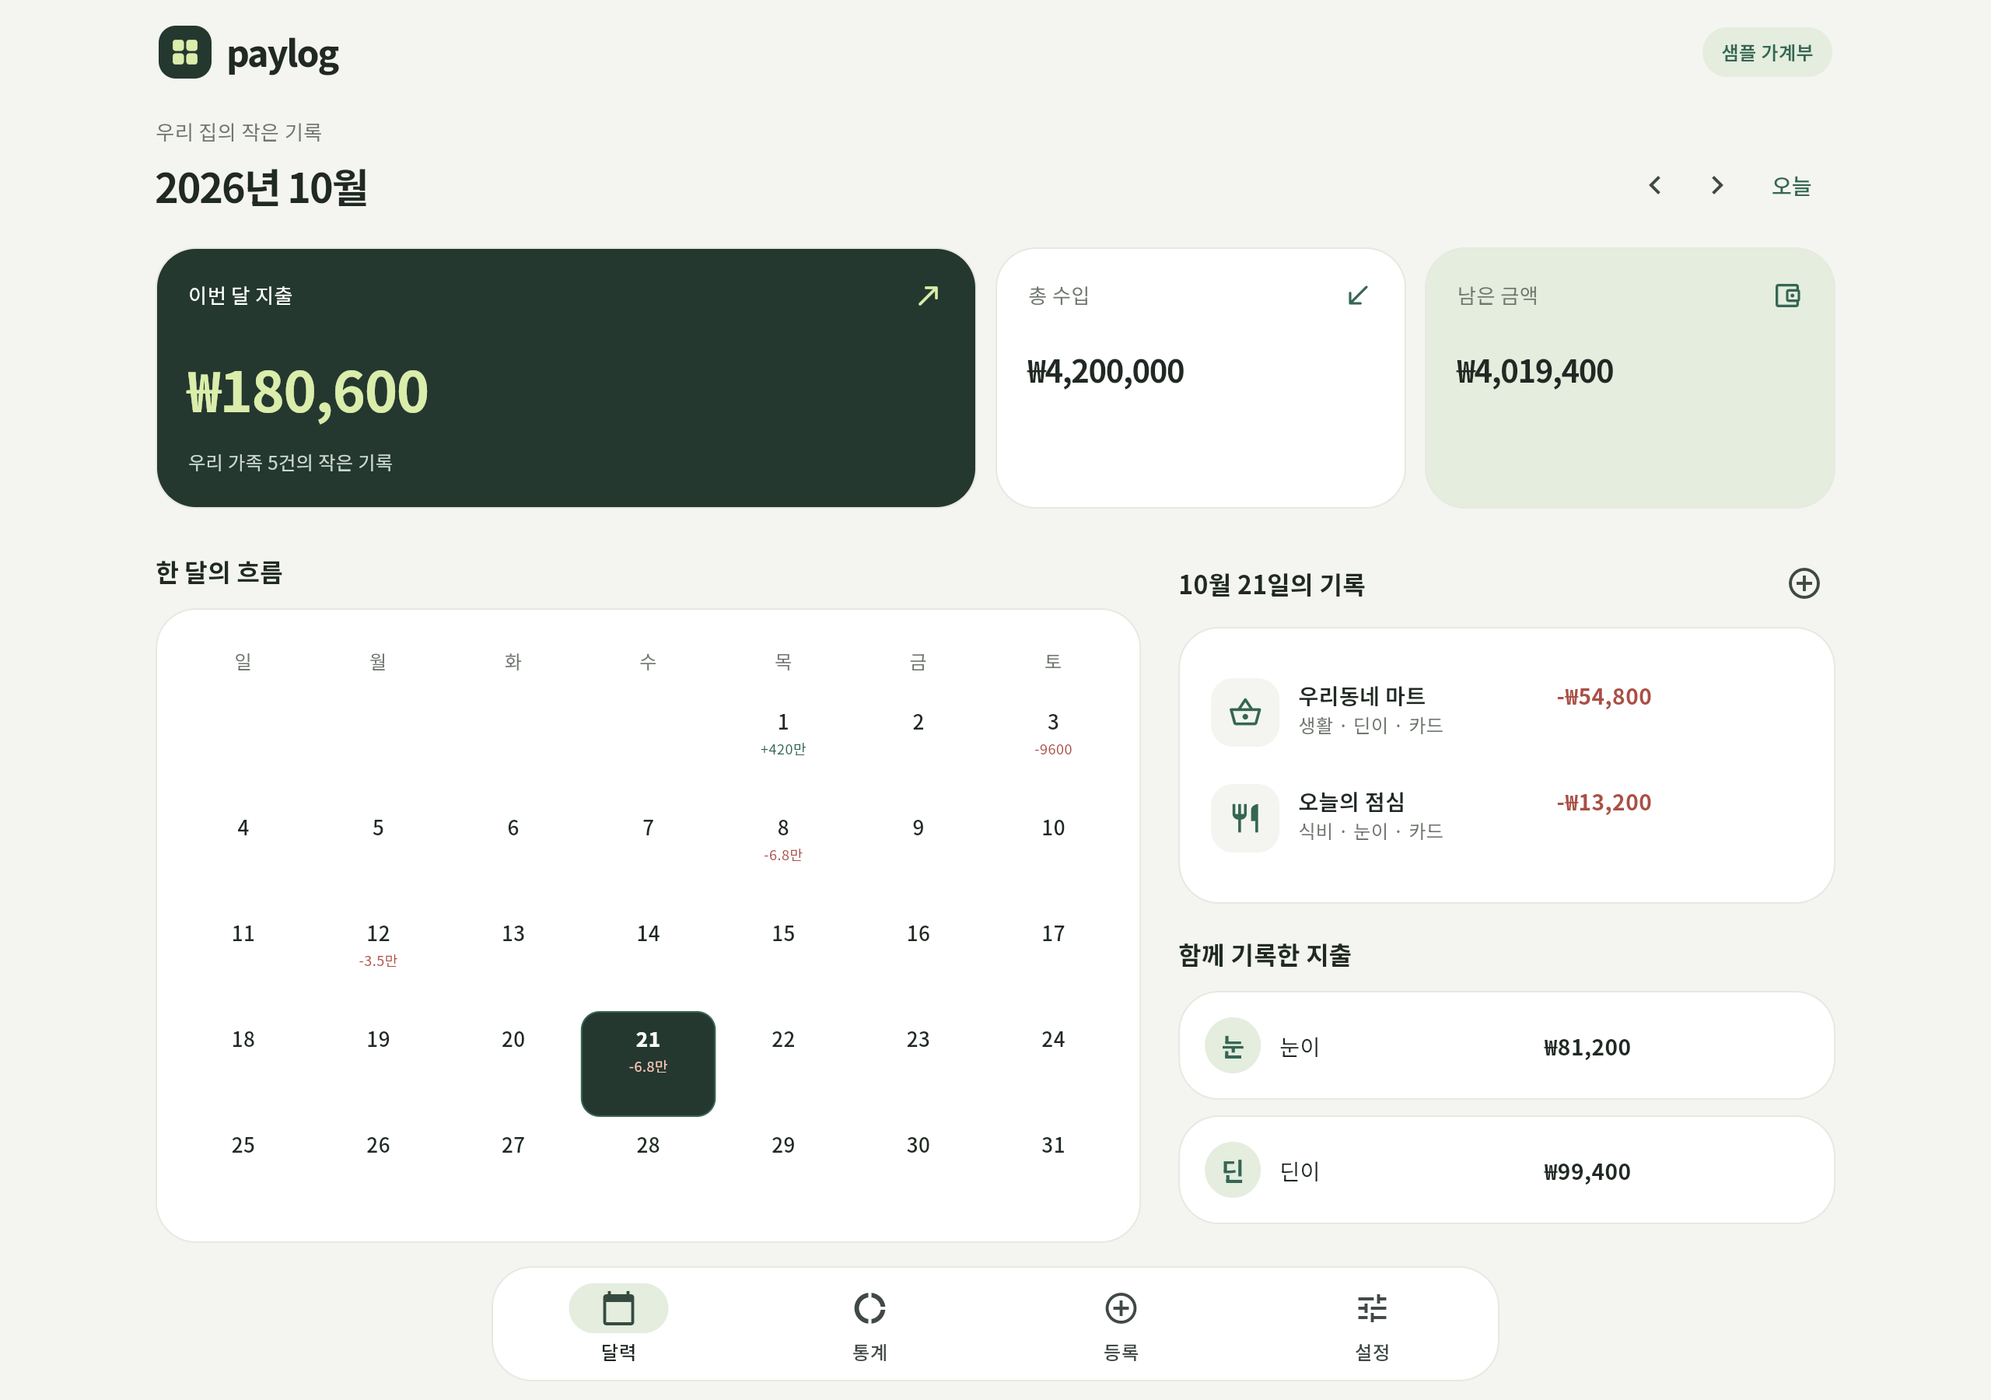
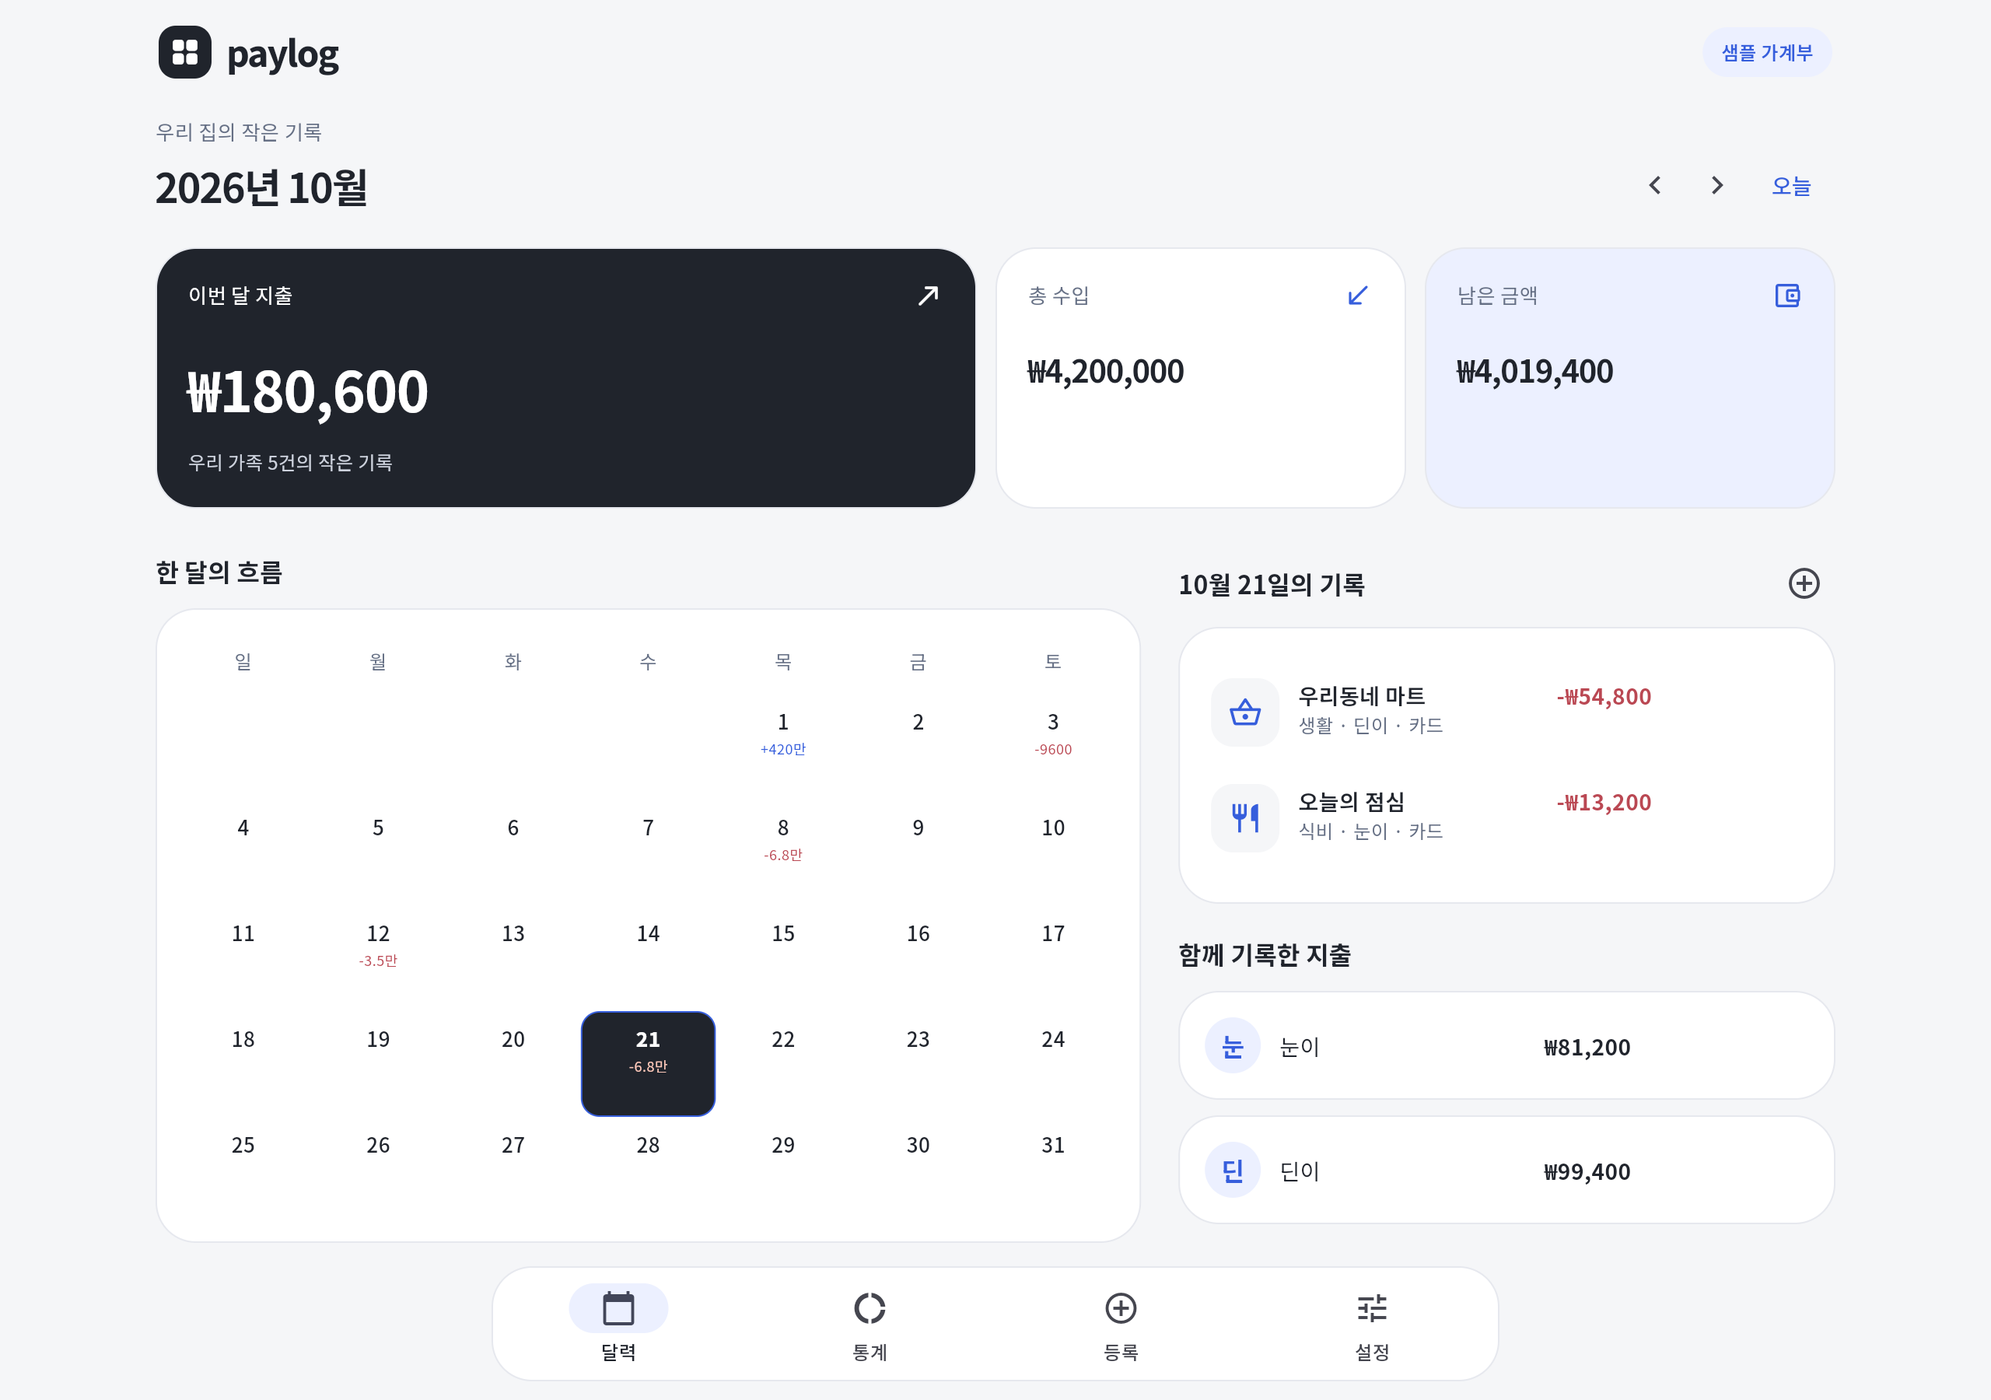
Use neutral blue palette and deduplicate repeated Android SMS delivery

diff --git a/apps/web/lib/core/theme/app_theme.dart b/apps/web/lib/core/theme/app_theme.dart
@@ -1,17 +1,17 @@
 import 'package:flutter/material.dart';
 
 abstract final class AppColors {
-  static const background = Color(0xFFF4F5F1);
+  static const background = Color(0xFFF5F6F8);
   static const surface = Colors.white;
-  static const dark = Color(0xFF24382F);
-  static const lime = Color(0xFFDBEDAB);
-  static const sand = Color(0xFFF1EBDC);
-  static const ink = Color(0xFF202923);
-  static const muted = Color(0xFF70776F);
-  static const teal = Color(0xFF356653);
-  static const tealSoft = Color(0xFFE4EDDE);
-  static const expense = Color(0xFFAA4F45);
-  static const border = Color(0xFFE6E9E1);
+  static const dark = Color(0xFF20242C);
+  static const highlight = Color(0xFFFFFFFF);
+  static const secondarySurface = Color(0xFFF0F2F6);
+  static const ink = Color(0xFF20242C);
+  static const muted = Color(0xFF667085);
+  static const accent = Color(0xFF365EDC);
+  static const accentSoft = Color(0xFFECF0FF);
+  static const expense = Color(0xFFBA4853);
+  static const border = Color(0xFFE6E8EE);
 }
 
 abstract final class Space {
@@ -26,8 +26,8 @@ abstract final class Space {
 
 abstract final class AppTheme {
   static ThemeData get light {
-    final scheme = ColorScheme.fromSeed(seedColor: AppColors.teal).copyWith(
-      primary: AppColors.teal,
+    final scheme = ColorScheme.fromSeed(seedColor: AppColors.accent).copyWith(
+      primary: AppColors.accent,
       surface: AppColors.surface,
       onSurface: AppColors.ink,
       error: AppColors.expense,
@@ -50,14 +50,14 @@ abstract final class AppTheme {
       ).apply(bodyColor: AppColors.ink, displayColor: AppColors.ink),
       inputDecorationTheme: InputDecorationTheme(
         filled: true,
-        fillColor: const Color(0xFFF6F7F3),
+        fillColor: const Color(0xFFF7F8FA),
         contentPadding: const EdgeInsets.all(Space.lg),
         border: OutlineInputBorder(
             borderRadius: BorderRadius.circular(16),
             borderSide: const BorderSide(color: AppColors.border)),
         focusedBorder: OutlineInputBorder(
             borderRadius: BorderRadius.circular(16),
-            borderSide: const BorderSide(color: AppColors.teal, width: 1.5)),
+            borderSide: const BorderSide(color: AppColors.accent, width: 1.5)),
       ),
       filledButtonTheme: FilledButtonThemeData(
           style: FilledButton.styleFrom(
@@ -78,12 +78,12 @@ abstract final class AppTheme {
           shape:
               RoundedRectangleBorder(borderRadius: BorderRadius.circular(12))),
       listTileTheme: const ListTileThemeData(
-          iconColor: AppColors.teal, contentPadding: EdgeInsets.zero),
+          iconColor: AppColors.accent, contentPadding: EdgeInsets.zero),
       navigationBarTheme: const NavigationBarThemeData(
         backgroundColor: Colors.transparent,
         elevation: 0,
         height: 72,
-        indicatorColor: AppColors.tealSoft,
+        indicatorColor: AppColors.accentSoft,
         labelBehavior: NavigationDestinationLabelBehavior.alwaysShow,
       ),
       dividerColor: AppColors.border,

diff --git a/apps/web/lib/features/settings/settings_screen.dart b/apps/web/lib/features/settings/settings_screen.dart
@@ -23,11 +23,11 @@ class SettingsScreen extends ConsumerWidget {
           const LedgerStatus(),
           if (ref.watch(transactionRepositoryProvider).sheetId == null) ...[
             const BentoCard(
-              color: AppColors.tealSoft,
+              color: AppColors.accentSoft,
               child: Column(
                   crossAxisAlignment: CrossAxisAlignment.start,
                   children: [
-                    Icon(Icons.spa_outlined, color: AppColors.teal, size: 28),
+                    Icon(Icons.spa_outlined, color: AppColors.accent, size: 28),
                     SizedBox(height: 16),
                     SectionHeader('지금은 샘플 모드예요'),
                     SizedBox(height: 8),
@@ -56,7 +56,7 @@ class SettingsScreen extends ConsumerWidget {
           ])),
           const SizedBox(height: 16),
           BentoCard(
-              color: AppColors.sand,
+              color: AppColors.secondarySurface,
               child: _SettingsAction(
                   icon: Icons.auto_awesome_outlined,
                   title: 'Android · iPhone 사용 가이드',
@@ -121,7 +121,7 @@ class _SettingsAction extends StatelessWidget {
                   decoration: BoxDecoration(
                       color: AppColors.background,
                       borderRadius: BorderRadius.circular(14)),
-                  child: Icon(icon, size: 21, color: AppColors.teal)),
+                  child: Icon(icon, size: 21, color: AppColors.accent)),
               const SizedBox(width: 12),
               Expanded(
                   child: Column(

diff --git a/apps/web/lib/features/calendar/summary_card.dart b/apps/web/lib/features/calendar/summary_card.dart
@@ -18,7 +18,7 @@ class SummaryCard extends StatelessWidget {
   Widget build(BuildContext context) => BentoCard(
         color: primary
             ? AppColors.dark
-            : (title == '남은 금액' ? AppColors.tealSoft : AppColors.surface),
+            : (title == '남은 금액' ? AppColors.accentSoft : AppColors.surface),
         child: Column(crossAxisAlignment: CrossAxisAlignment.start, children: [
           Row(children: [
             Expanded(
@@ -33,19 +33,19 @@ class SummaryCard extends StatelessWidget {
                         ? Icons.south_west_rounded
                         : Icons.account_balance_wallet_outlined,
                 size: 20,
-                color: primary ? AppColors.lime : AppColors.teal),
+                color: primary ? AppColors.highlight : AppColors.accent),
           ]),
           const SizedBox(height: 22),
           Text(won(amount),
               style: AppTheme.numberStyle.copyWith(
                   fontSize: primary ? 36 : 20,
                   fontWeight: FontWeight.w700,
-                  color: primary ? AppColors.lime : AppColors.ink,
+                  color: primary ? AppColors.highlight : AppColors.ink,
                   letterSpacing: -.7)),
           if (label != null) ...[
             const SizedBox(height: 12),
             Text(label!,
-                style: const TextStyle(color: Color(0xFFCCD8CF), fontSize: 12)),
+                style: const TextStyle(color: Color(0xFFCDD2DD), fontSize: 12)),
           ],
         ]),
       );

diff --git a/apps/web/lib/app/app.dart b/apps/web/lib/app/app.dart
@@ -105,7 +105,7 @@ class AppShell extends ConsumerWidget {
                               color: AppColors.dark,
                               borderRadius: BorderRadius.circular(11)),
                           child: const Icon(Icons.grid_view_rounded,
-                              color: AppColors.lime, size: 21)),
+                              color: AppColors.highlight, size: 21)),
                       const SizedBox(width: 10),
                       const Expanded(
                           child: FittedBox(
@@ -121,7 +121,7 @@ class AppShell extends ConsumerWidget {
                           padding: const EdgeInsets.symmetric(
                               horizontal: 12, vertical: 7),
                           decoration: BoxDecoration(
-                              color: AppColors.tealSoft,
+                              color: AppColors.accentSoft,
                               borderRadius: BorderRadius.circular(20)),
                           child: Text(
                               ref
@@ -131,7 +131,7 @@ class AppShell extends ConsumerWidget {
                                   ? '샘플 가계부'
                                   : 'Sheets 원장',
                               style: const TextStyle(
-                                  color: AppColors.teal,
+                                  color: AppColors.accent,
                                   fontSize: 12,
                                   fontWeight: FontWeight.w600))),
                     ])),

diff --git a/apps/sms_android/app/src/test/java/app/paylog/sms/SmsIdentityTest.kt b/apps/sms_android/app/src/test/java/app/paylog/sms/SmsIdentityTest.kt
@@ -1,0 +1,29 @@
+package app.paylog.sms
+
+import org.junit.Assert.*
+import org.junit.Test
+
+class SmsIdentityTest {
+    @Test(expected = IllegalArgumentException::class) fun missingOriginalTimestampIsNotCollapsedIntoAnIdentity() {
+        SmsIdentity.of("15880000", listOf(0L to "승인 12000"))
+    }
+    @Test fun redeliveryKeepsIdentityAndDoesNotExposeMessage() {
+        val text = "하나카드 승인 12,000원 테스트가맹점"
+        val parts = listOf(1700000000000L to text)
+        val id = SmsIdentity.of("15880000", parts)
+        assertEquals(id, SmsIdentity.of("15880000", parts.toList()))
+        assertTrue(id.matches(Regex("[a-f0-9]{64}")))
+        assertFalse(id.contains(text))
+    }
+    @Test fun separateIdenticalPaymentsAndCancellationsRemainDistinct() {
+        val first = SmsIdentity.of("15880000", listOf(1000L to "승인 12000"))
+        assertNotEquals(first, SmsIdentity.of("15880000", listOf(1001L to "승인 12000")))
+        assertNotEquals(first, SmsIdentity.of("15880000", listOf(1000L to "취소 12000")))
+        assertNotEquals(first, SmsIdentity.of("15889999", listOf(1000L to "승인 12000")))
+    }
+    @Test fun multipartBoundariesAreUnambiguous() {
+        val parts = listOf(1000L to "ab", 1000L to "c")
+        assertEquals(SmsIdentity.of("1", parts), SmsIdentity.of("1", parts))
+        assertNotEquals(SmsIdentity.of("1", parts), SmsIdentity.of("1", listOf(1000L to "a", 1000L to "bc")))
+    }
+}

diff --git a/apps/web/lib/features/transactions/transaction_form.dart b/apps/web/lib/features/transactions/transaction_form.dart
@@ -369,7 +369,7 @@ class CategoryTile extends StatelessWidget {
         selected: selected,
         button: true,
         child: Material(
-            color: selected ? AppColors.tealSoft : AppColors.background,
+            color: selected ? AppColors.accentSoft : AppColors.background,
             borderRadius: BorderRadius.circular(16),
             child: InkWell(
                 onTap: onTap,
@@ -379,12 +379,13 @@ class CategoryTile extends StatelessWidget {
                         const EdgeInsets.symmetric(vertical: 14, horizontal: 4),
                     child: Column(children: [
                       Icon(category.icon,
-                          color: selected ? AppColors.teal : AppColors.muted),
+                          color: selected ? AppColors.accent : AppColors.muted),
                       const SizedBox(height: 8),
                       Text(category.label,
                           textAlign: TextAlign.center,
                           style: TextStyle(
-                              color: selected ? AppColors.teal : AppColors.ink,
+                              color:
+                                  selected ? AppColors.accent : AppColors.ink,
                               fontSize: 12))
                     ])))),
       );

diff --git a/apps/web/lib/features/transactions/transaction_tile.dart b/apps/web/lib/features/transactions/transaction_tile.dart
@@ -23,8 +23,8 @@ class TransactionTile extends StatelessWidget {
                     decoration: BoxDecoration(
                         color: AppColors.background,
                         borderRadius: BorderRadius.circular(14)),
-                    child:
-                        Icon(t.category.icon, color: AppColors.teal, size: 22)),
+                    child: Icon(t.category.icon,
+                        color: AppColors.accent, size: 22)),
                 const SizedBox(width: Space.md),
                 Expanded(
                     child: Column(
@@ -48,8 +48,9 @@ class TransactionTile extends StatelessWidget {
                         semanticsLabel: '${income ? '수입' : '지출'} ${t.amount}원',
                         style: AppTheme.numberStyle.copyWith(
                             fontWeight: FontWeight.w700,
-                            color:
-                                income ? AppColors.teal : AppColors.expense))),
+                            color: income
+                                ? AppColors.accent
+                                : AppColors.expense))),
               ],
             )));
   }

diff --git a/apps/sms_android/app/src/main/java/app/paylog/sms/SmsIdentity.kt b/apps/sms_android/app/src/main/java/app/paylog/sms/SmsIdentity.kt
@@ -1,0 +1,26 @@
+package app.paylog.sms
+
+import java.io.ByteArrayOutputStream
+import java.io.DataOutputStream
+import java.security.MessageDigest
+
+/** Same SMS broadcast yields the same ID; queue/network retry time is excluded. */
+object SmsIdentity {
+    fun of(sender: String, parts: List<Pair<Long, String>>): String {
+        require(parts.isNotEmpty() && parts.all { it.first > 0 })
+        val bytes = ByteArrayOutputStream()
+        DataOutputStream(bytes).use { out ->
+            out.writeUTF("paylog-sms-v1")
+            out.writeUTF(sender)
+            out.writeInt(parts.size)
+            for ((timestamp, body) in parts) {
+                out.writeLong(timestamp)
+                val text = body.toByteArray(Charsets.UTF_8)
+                out.writeInt(text.size)
+                out.write(text)
+            }
+        }
+        return MessageDigest.getInstance("SHA-256").digest(bytes.toByteArray())
+            .joinToString("") { "%02x".format(it) }
+    }
+}

diff --git a/apps/web/lib/features/statistics/statistics_screen.dart b/apps/web/lib/features/statistics/statistics_screen.dart
@@ -50,7 +50,7 @@ class StatisticsScreen extends ConsumerWidget {
               padding: const EdgeInsets.only(bottom: 20),
               child: Column(children: [
                 Row(children: [
-                  Icon(category.icon, color: AppColors.teal, size: 20),
+                  Icon(category.icon, color: AppColors.accent, size: 20),
                   const SizedBox(width: 10),
                   Expanded(child: Text(category.label)),
                   Flexible(
@@ -65,7 +65,7 @@ class StatisticsScreen extends ConsumerWidget {
                     child: LinearProgressIndicator(
                         value: ratio,
                         minHeight: 7,
-                        backgroundColor: AppColors.tealSoft,
+                        backgroundColor: AppColors.accentSoft,
                         semanticsLabel: '${category.label} 지출 비율',
                         semanticsValue: '${(ratio * 100).round()}%')),
               ]));

diff --git a/apps/sms_android/app/src/main/java/app/paylog/sms/SmsReceiver.kt b/apps/sms_android/app/src/main/java/app/paylog/sms/SmsReceiver.kt
@@ -21,7 +21,8 @@ class SmsReceiver : BroadcastReceiver() {
                 if (!allowed.contains(sender) || parts.any { it.originatingAddress?.replace(Regex("[\\s()-]"), "") != sender }) return@Thread
                 val body = parts.joinToString("") { it.messageBody.orEmpty() }
                 if (body.isEmpty() || body.length > 4096) return@Thread
-                val payload = org.json.JSONObject().put("action","sms.ingest").put("sender",sender).put("body",body).put("receivedAt",Instant.now().toString())
+                val messageId = SmsIdentity.of(sender, parts.map { it.timestampMillis to it.messageBody.orEmpty() })
+                val payload = org.json.JSONObject().put("action","sms.ingest").put("messageId",messageId).put("sender",sender).put("body",body).put("receivedAt",Instant.now().toString())
                 val id = store.enqueue(payload)
                 UploadWorker.schedule(context,id)
             } catch (_: Exception) {

diff --git a/apps/web/lib/features/calendar/calendar_card.dart b/apps/web/lib/features/calendar/calendar_card.dart
@@ -93,7 +93,7 @@ class DayCell extends StatelessWidget {
                 color: selected ? AppColors.dark : null,
                 borderRadius: BorderRadius.circular(12),
                 border: Border.all(
-                    color: today ? AppColors.teal : Colors.transparent)),
+                    color: today ? AppColors.accent : Colors.transparent)),
             child: Column(children: [
               Text('${date.day}',
                   style: TextStyle(
@@ -112,7 +112,8 @@ class DayCell extends StatelessWidget {
                 Text('+${compact(income)}',
                     style: TextStyle(
                         fontSize: 9,
-                        color: selected ? AppColors.lime : AppColors.teal)),
+                        color:
+                            selected ? AppColors.highlight : AppColors.accent)),
             ]),
           ),
         )),

diff --git a/apps/web/lib/features/calendar/calendar_screen.dart b/apps/web/lib/features/calendar/calendar_screen.dart
@@ -70,9 +70,10 @@ class CalendarScreen extends ConsumerWidget {
                       child: Row(children: [
                         CircleAvatar(
                             radius: 18,
-                            backgroundColor: AppColors.tealSoft,
+                            backgroundColor: AppColors.accentSoft,
                             child: Text(member.name.substring(0, 1),
-                                style: const TextStyle(color: AppColors.teal))),
+                                style:
+                                    const TextStyle(color: AppColors.accent))),
                         const SizedBox(width: 12),
                         Expanded(child: Text(memberLabel(member, people))),
                         Flexible(
